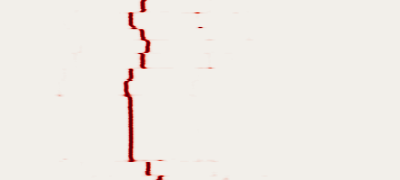
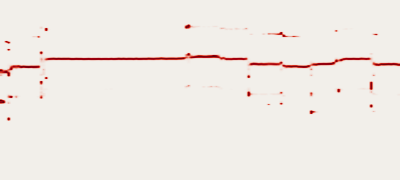
[sodabot] smorph: fix canvas audio bleed + flip pitch plot orientation
- CanvasPlayer.loadGrid: add generation counter (_loadId) so switching
  patches while loading cancels the stale load, preventing buffer mixing
- render_pitch: flip orientation to time-on-Y × pitch-on-X (was transposed)
  — regenerated all pitch ctrl signal PNGs (paper pairs + canvas patches)

diff --git a/index.html b/index.html
@@ -1172,7 +1172,7 @@ class CanvasPlayer {
   constructor() {
     this.ctx=null; this.masterGain=null; this.limiter=null;
     this._buffers=[]; this._sources=[]; this._gains=[];
-    this._gridCols=0; this._gridRows=0;
+    this._gridCols=0; this._gridRows=0; this._loadId=0;
     this._playing=false; this._looping=true; this._volume=0.8;
     this._x=0; this._y=0; this._startedAt=0; this._pauseOffset=0;
     this._onEndedBound=this._onEnded.bind(this);
@@ -1187,6 +1187,7 @@ class CanvasPlayer {
   }
   async resume() { if(this.ctx&&this.ctx.state==='suspended')await this.ctx.resume(); }
   async loadGrid(urls,cols,rows,onProgress) {
+    const myId=++this._loadId;
     this.stop(); this._gridCols=cols; this._gridRows=rows; this._buffers=[];
     const bust=`_cb=${Date.now()}`;
     const loadOne=async(url)=>{
@@ -1196,8 +1197,13 @@ class CanvasPlayer {
       return buf;
     };
     if(typeof onProgress==='function'){
-      for(let i=0;i<urls.length;i++){this._buffers.push(await loadOne(urls[i]));onProgress(i+1,urls.length);}
+      for(let i=0;i<urls.length;i++){
+        if(this._loadId!==myId)throw new Error('load cancelled');
+        this._buffers.push(await loadOne(urls[i]));
+        onProgress(i+1,urls.length);
+      }
     } else { this._buffers=await Promise.all(urls.map(loadOne)); }
+    if(this._loadId!==myId)throw new Error('load cancelled');
     this._pauseOffset=0;
   }
   get ready(){return this._buffers.length>0&&this._gridCols>=2&&this._gridRows>=2;}
@@ -1736,14 +1742,14 @@ class SpectroMorph {
       document.querySelectorAll('.patch-tab').forEach(b => b.classList.remove('active'));
       btn.classList.add('active');
       loadPatch(btn.dataset.patch).catch(err => {
-        statusEl.textContent = `Error: ${err.message}`;
+        if (err.message !== 'load cancelled') statusEl.textContent = `Error: ${err.message}`;
       });
     });
   });
 
   // load first patch on startup
   loadPatch('snare-glass').catch(err => {
-    statusEl.textContent = `Error: ${err.message}`;
+    if (err.message !== 'load cancelled') statusEl.textContent = `Error: ${err.message}`;
   });
 })();
 
